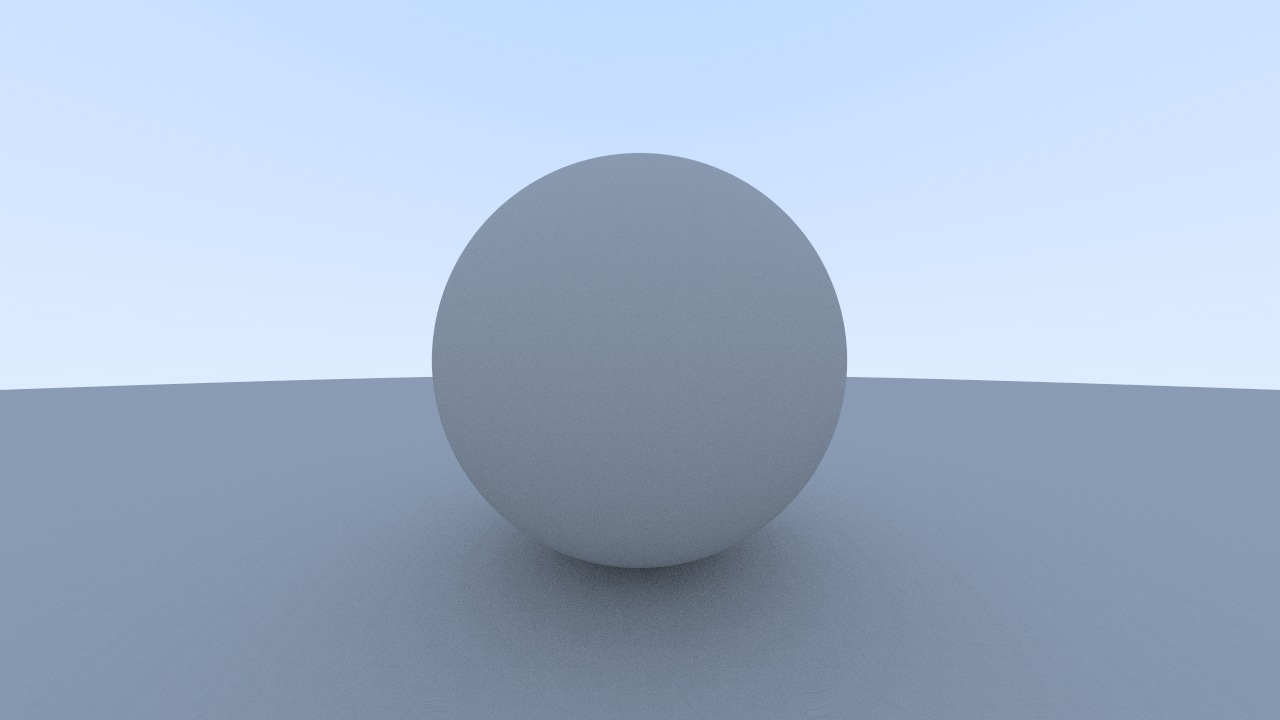
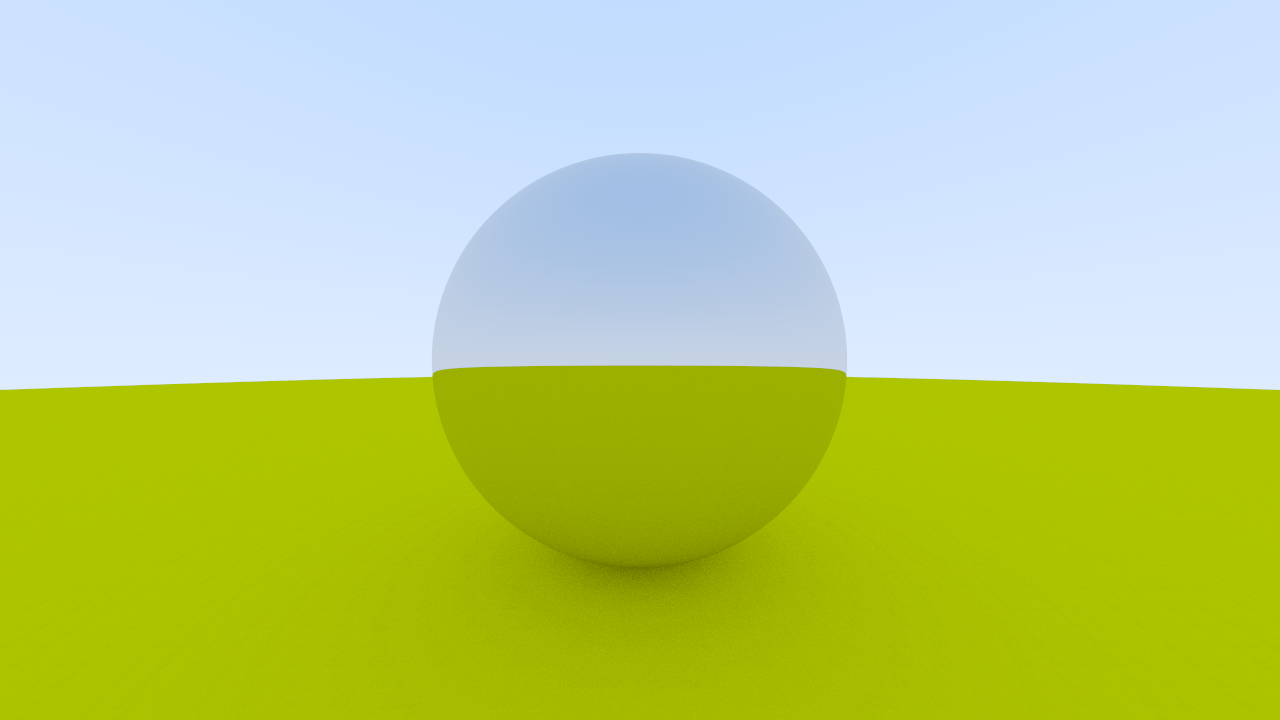
Forgot copy material

diff --git a/Raytracing.cpp b/Raytracing.cpp
@@ -45,7 +45,7 @@ Raytracing::Raytracing() {
 bool Raytracing::Run() {
 	// Render
 	const size_t maxThreads = std::thread::hardware_concurrency();
-	
+
 	std::cout << "Max Threads: " << maxThreads << '\n';
 
 	bool threaded = true;
@@ -103,7 +103,6 @@ Raytracing::~Raytracing() {
 		(*it).second = nullptr;
 	}
 	m_materials.clear();
-	
 }
 
 const Vector3D Raytracing::RayColor(Ray& ray, const int depth) {
@@ -112,12 +111,14 @@ const Vector3D Raytracing::RayColor(Ray& ray, const int depth) {
 
 	// draw objects
 	HitRec rec;
+	//rec.SetMaterial(m_materials["ground"]);
 	if (HitObject(ray, 0.001f, INFINITY, rec)) {
 		//Vector3D col = rec.normal + Vector3D(1.0f, 1.0f, 1.0f);
 		//col *= 0.5f/* * 255.0f*/;
 
 		//Vector3D target = rec.GetPoint() + Vector3D::RandomUnitVector() + rec.GetNormal();
 		//Vector3D target = rec.point + RandomInHemisphere(rec.normal);
+
 		//Ray tempRay = Ray(rec.GetPoint(), target - rec.GetPoint());
 
 		//return RayColor(tempRay, depth - 1) * 0.5f;
@@ -125,11 +126,11 @@ const Vector3D Raytracing::RayColor(Ray& ray, const int depth) {
 		Ray scattered;
 		Vector3D attentuation;
 
-		if (rec.GetMaterial()->Scatter(ray, rec, attentuation, scattered)) {
+		if (rec.GetMaterial() == nullptr || rec.GetMaterial()->Scatter(ray, rec, attentuation, scattered)) {
 			return attentuation * RayColor(scattered, depth - 1);
 		}
 
-		return Vector3D();
+		return Vector3D(0.0f, 0.0f, 0.0f);
 	}
 
 	// draw backround

diff --git a/HitRec.cpp b/HitRec.cpp
@@ -10,6 +10,7 @@ HitRec::HitRec() {
 
 HitRec::HitRec(const HitRec& copyHitRec) {
 	m_frontFace = copyHitRec.m_frontFace;
+	m_mat = copyHitRec.m_mat;
 	m_normal = copyHitRec.m_normal;
 	m_point = copyHitRec.m_point;
 	m_t = copyHitRec.m_t;
@@ -23,6 +24,7 @@ HitRec& HitRec::operator=(const HitRec& copyHitRec) {
 	if (&copyHitRec == this) return *this;
 
 	m_frontFace = copyHitRec.m_frontFace;
+	m_mat = copyHitRec.m_mat;
 	m_normal = copyHitRec.m_normal;
 	m_point = copyHitRec.m_point;
 	m_t = copyHitRec.m_t;

diff --git a/Ray.cpp b/Ray.cpp
@@ -8,6 +8,16 @@ Ray::Ray(const Vector3D& orig, const Vector3D& dir) {
 	m_dir = dir;
 }
 
+Ray& Ray::operator=(const Ray& copyRay) {
+	// TODO: insert return statement here
+	if (&copyRay == this) return *this;
+
+	m_orig = copyRay.m_orig;
+	m_dir = copyRay.m_dir;
+
+	return *this;
+}
+
 const Vector3D Ray::At(const float t) {
 	return m_orig + (m_dir * t);
 }

diff --git a/Ray.h b/Ray.h
@@ -7,6 +7,9 @@ public:
 	Ray();
 	Ray(const Vector3D& orig, const Vector3D& dir);
 
+	//Vector3D& operator=(const Vector3D& copyVector);
+	Ray& operator=(const Ray& copyRay);
+
 	const Vector3D At(const float t);
 
 	~Ray();
